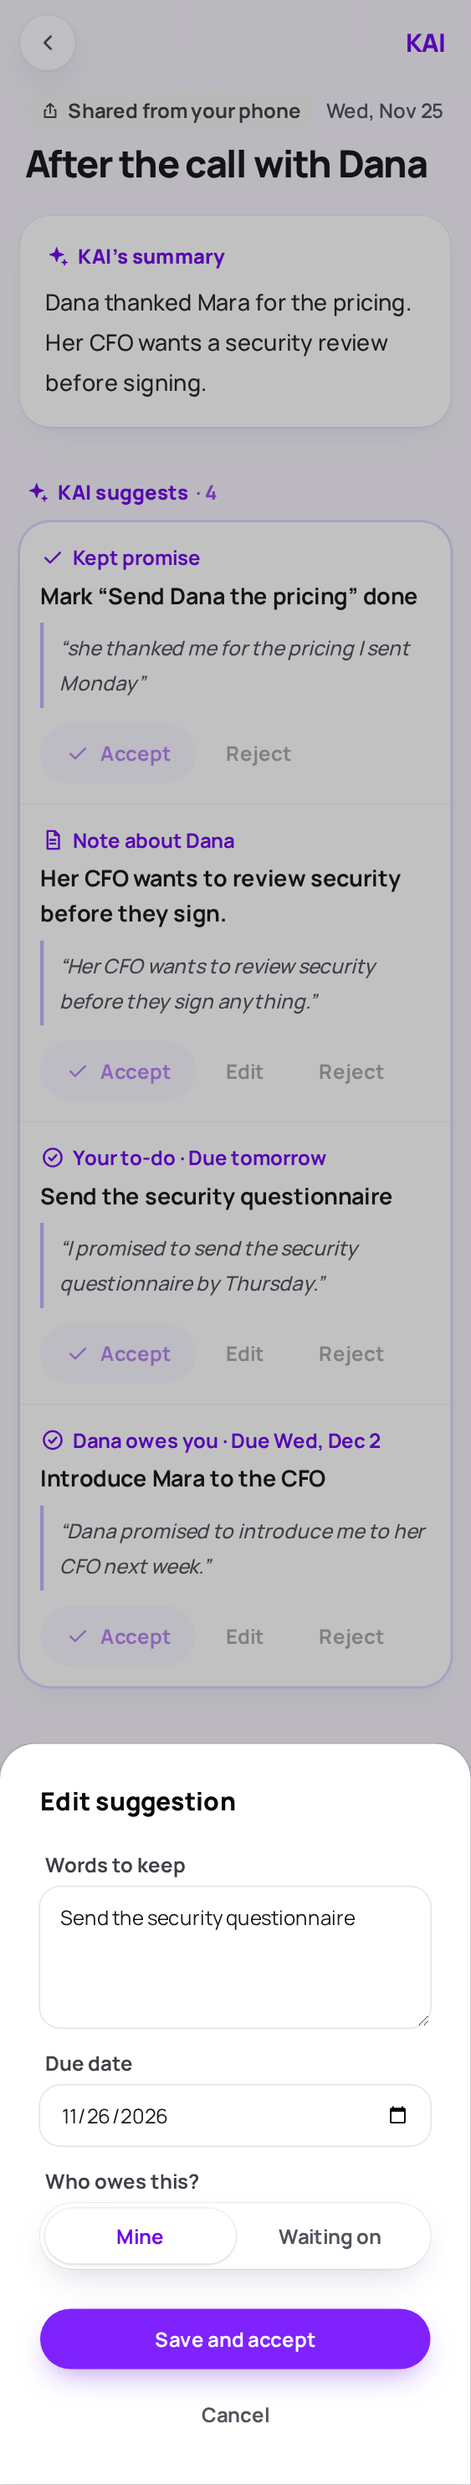
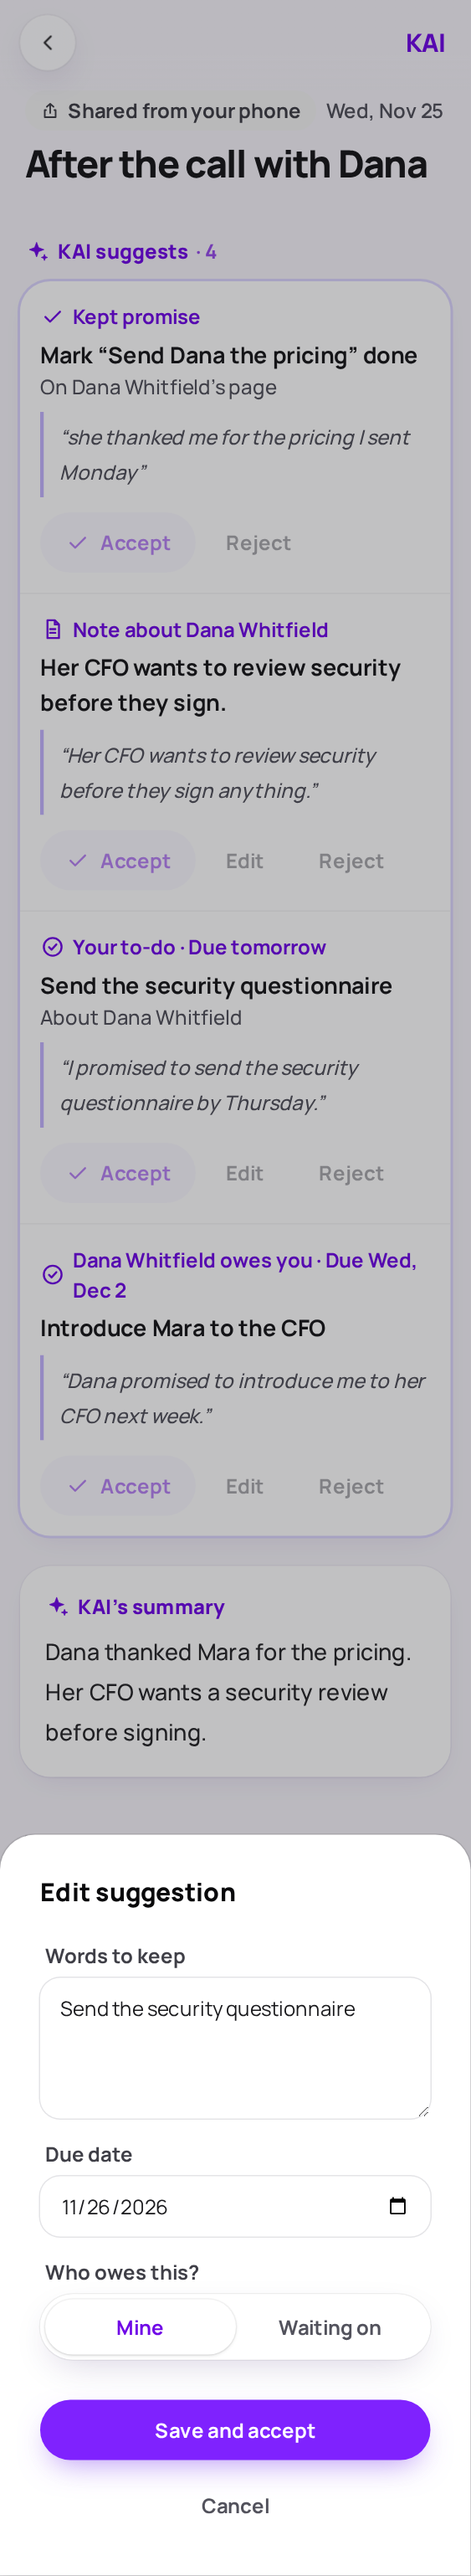
Put suggestions first and show the people they update

diff --git a/src/look/screens/Recording.tsx b/src/look/screens/Recording.tsx
@@ -14,14 +14,15 @@ const SOURCE: Record<Source, { label: string; icon: IconName }> = {
 /** What a suggestion is, in a few plain words, and what it says. */
 function describe(suggestion: Suggestion, today: string) {
   const payload = JSON.parse(suggestion.payload) as Payload
-  const who = payload.person_name?.split(' ')[0]
+  const who = suggestion.person_name
+  const owner = suggestion.owner_name
   const due = payload.due_on ? ` · ${dueWords(payload.due_on, today)}` : ''
   if (suggestion.kind === 'person')
     return { icon: 'people' as const, kind: 'New person', title: payload.name ?? '', detail: [payload.role, payload.company].filter(Boolean).join(' at ') }
-  if (suggestion.kind === 'note') return { icon: 'doc' as const, kind: who ? `Note about ${who}` : 'Note', title: payload.text ?? '' }
-  if (suggestion.kind === 'done') return { icon: 'check' as const, kind: 'Kept promise', title: `Mark “${payload.text}” done` }
-  if (payload.owner_person_id) return { icon: 'todo' as const, kind: (who ? `${who} owes you` : 'Waiting on') + due, title: payload.text ?? '' }
-  return { icon: 'todo' as const, kind: 'Your to-do' + due, title: payload.text ?? '' }
+  if (suggestion.kind === 'note') return { icon: 'doc' as const, kind: who ? `Note about ${who}` : 'Note · person unavailable', title: payload.text ?? '' }
+  if (suggestion.kind === 'done') return { icon: 'check' as const, kind: 'Kept promise', title: `Mark “${suggestion.todo_text ?? payload.text ?? 'this to-do'}” done`, detail: who ? `On ${who}’s page` : 'Person unavailable' }
+  if (payload.owner_person_id) return { icon: 'todo' as const, kind: (owner ? `${owner} owes you` : 'Waiting on · person unavailable') + due, title: payload.text ?? '', detail: who && who !== owner ? `About ${who}` : undefined }
+  return { icon: 'todo' as const, kind: 'Your to-do' + due, title: payload.text ?? '', detail: who ? `About ${who}` : payload.person_id ? 'Person unavailable' : 'For you' }
 }
 
 /** One suggestion: what KAI heard, and Accept, Edit or Reject. */
@@ -265,18 +266,6 @@ export function Recording({
           {recording.status === 'failed' && <Notice tone="error">{recording.error ?? 'KAI could not read this recording.'}</Notice>}
           {actionError && !edited && <Notice tone="error">{actionError}</Notice>}
 
-          {recording.person && <Card className="p-5"><p className="text-base font-semibold text-zinc-600">Linked to</p><TextLink href={'/people/'+recording.person.id}>{recording.person.name}</TextLink></Card>}
-
-          {recording.summary && (
-            <Card className="p-5">
-              <p className="flex items-center gap-1.5 text-base font-extrabold text-violet-700">
-                <Icon name="sparkle" />
-                KAI’s summary
-              </p>
-              <p className="mt-2 text-lg/8 font-medium whitespace-pre-line text-zinc-800">{recording.summary}</p>
-            </Card>
-          )}
-
           {(recording.suggestions.length > 0 || recording.status === 'ready') && (
             <div>
               <SectionLabel tone="kai" count={proposed.length || undefined}>
@@ -284,7 +273,7 @@ export function Recording({
               </SectionLabel>
               {recording.suggestions.length > 0 ? (
                 <ul className="divide-y divide-zinc-100 overflow-hidden rounded-3xl bg-white shadow-card ring-2 ring-violet-200">
-                  {recording.suggestions.map((suggestion) => (
+                  {[...proposed, ...recording.suggestions.filter(s=>s.status!=='proposed')].map((suggestion) => (
                     <SuggestionRow
                       key={suggestion.id}
                       suggestion={suggestion}
@@ -301,6 +290,18 @@ export function Recording({
                 <Card className="p-5 text-base font-medium text-zinc-600">KAI found no suggestions in these words.</Card>
               )}
             </div>
+          )}
+
+          {recording.person && <Card className="p-5"><p className="text-base font-semibold text-zinc-600">Linked to</p><TextLink href={'/people/'+recording.person.id}>{recording.person.name}</TextLink></Card>}
+
+          {recording.summary && (
+            <Card className="p-5">
+              <p className="flex items-center gap-1.5 text-base font-extrabold text-violet-700">
+                <Icon name="sparkle" />
+                KAI’s summary
+              </p>
+              <p className="mt-2 text-lg/8 font-medium whitespace-pre-line text-zinc-800">{recording.summary}</p>
+            </Card>
           )}
 
           {recording.status === 'ready' && proposed.length === 0 && waitlist}

diff --git a/tests/suggestion-list.test.ts b/tests/suggestion-list.test.ts
@@ -1,0 +1,40 @@
+import {test} from 'node:test';
+import assert from 'node:assert/strict';
+import {openDatabase,seed} from '../src/server/db';
+import {suggestionList} from '../src/server/suggestion-list';
+import {decide} from '../src/server/decisions';
+
+test('suggestions resolve their subject and task owner separately, within the notebook',()=>{
+ const db=openDatabase();seed(db,new Date(),'first');seed(db,new Date(),'second');
+ const add=db.prepare("INSERT INTO suggestions VALUES (?, 'first', 'first:dana-call', ?, ?, 'Invented quote', 'proposed')");
+ try {
+  add.run('note','note',JSON.stringify({person_id:'first:dana',text:'An invented note'}));
+  add.run('task','todo',JSON.stringify({person_id:'first:dana',owner_person_id:'first:ellis',text:'An invented promise',due_on:null}));
+  add.run('own','todo',JSON.stringify({person_id:null,owner_person_id:null,text:'Buy a notebook',due_on:null}));
+  add.run('foreign','note',JSON.stringify({person_id:'second:dana',person_name:'A guessed name',text:'An invented invalid reference'}));
+  const list=suggestionList(db,'first','first:dana-call');
+  assert.equal(list.find(s=>s.id==='note')!.person_name,'Dana Whitfield');
+  assert.equal(list.find(s=>s.id==='task')!.owner_name,'Ellis Rowan');
+  assert.equal(list.find(s=>s.id==='task')!.person_name,'Dana Whitfield');
+  assert.equal(list.find(s=>s.id==='own')!.person_name,null);assert.equal(list.find(s=>s.id==='own')!.owner_name,null);
+  assert.equal(list.find(s=>s.id==='foreign')!.person_name,null);
+  assert.deepEqual(suggestionList(db,'second','first:dana-call'),[]);
+ }finally{db.close()}
+});
+
+test('new people are named before acceptance and kept promises retain their text after acceptance',()=>{
+ const db=openDatabase();seed(db,new Date(),'first');
+ const add=db.prepare("INSERT INTO suggestions VALUES (?, 'first', 'first:dana-call', ?, ?, 'Invented quote', 'proposed')");
+ try {
+  add.run('proposed','person',JSON.stringify({name:'Sora Bell',company:'Cloudberry Smiles',role:'Manager'}));
+  add.run('new-note','note',JSON.stringify({person_id:'proposed',text:'An invented note'}));
+  add.run('kept','done',JSON.stringify({person_id:'first:dana',todo_id:'first:pricing',text:'Send Dana the pricing'}));
+  assert.equal(suggestionList(db,'first','first:dana-call').find(s=>s.id==='new-note')!.person_name,'Sora Bell');
+  decide(db,'first','proposed','accept',{name:'Sora Fern'});decide(db,'first','kept','accept');
+  const list=suggestionList(db,'first','first:dana-call');
+  assert.equal(list.find(s=>s.id==='new-note')!.person_name,'Sora Fern');
+  assert.equal(list.find(s=>s.id==='kept')!.todo_text,'Send Dana the pricing');
+  assert.equal(list.find(s=>s.id==='kept')!.person_name,'Dana Whitfield');
+  assert.equal(list.find(s=>s.id==='kept')!.status,'accepted');
+ }finally{db.close()}
+});

diff --git a/tests/phone/suggestion-context.spec.ts b/tests/phone/suggestion-context.spec.ts
@@ -1,0 +1,27 @@
+import {test,expect} from './fixture';
+import {assertPhone} from './usability';
+
+test('suggestions appear before the summary, name affected people and keep pending actions first',async({page,kai})=>{
+ await page.goto('/');await page.evaluate(s=>{history.replaceState(null,'','/#judge='+s);location.reload()},kai.secret);
+ await page.getByRole('link',{name:'Try it yourself',exact:true}).click();await page.getByRole('button',{name:'A follow-up with Dana',exact:true}).click();
+ await expect(page.getByRole('button',{name:/^Accept all/})).toBeEnabled();
+ await expect(page.getByText('Note about Dana Whitfield',{exact:true})).toBeVisible();
+ await expect(page.getByText('About Dana Whitfield',{exact:true})).toBeVisible();
+ await expect(page.getByText('On Dana Whitfield’s page',{exact:true})).toBeVisible();
+ await expect(page.getByText(/Dana Whitfield owes you/)).toBeVisible();
+ const note=await page.getByText('Note about Dana Whitfield',{exact:true}).boundingBox();const summary=await page.getByText('KAI’s summary',{exact:true}).boundingBox();expect(note!.y).toBeLessThan(summary!.y);
+ await page.getByRole('button',{name:'Accept',exact:true}).first().click();
+ await expect(page.getByText('Accepted',{exact:true})).toHaveCount(1);
+ const first=page.locator('main li').first();await expect(first).toContainText('Note about Dana Whitfield');await expect(first.getByRole('button',{name:'Accept',exact:true})).toBeEnabled();
+ await expect(page.getByRole('heading',{name:'Mark “Send Dana the pricing” done',exact:true})).toBeVisible();
+ await page.getByRole('button',{name:/^Show in the words:/}).first().click();await expect(page.locator('mark')).toBeVisible();await assertPhone(page);
+});
+
+test('suggestions about a proposed person show their name before and after accepting them',async({page,kai})=>{
+ await page.goto('/');await page.evaluate(s=>{history.replaceState(null,'','/#judge='+s);location.reload()},kai.secret);
+ await page.getByRole('link',{name:'Try it yourself',exact:true}).click();await page.getByRole('button',{name:'Meeting Sora',exact:true}).click();
+ await expect(page.getByRole('button',{name:/^Accept all/})).toBeEnabled();
+ await expect(page.getByText('Note about Sora Bell',{exact:true})).toBeVisible();await expect(page.getByText('About Sora Bell',{exact:true})).toBeVisible();
+ await page.getByRole('button',{name:'Accept',exact:true}).first().click();await expect(page.getByText('Accepted',{exact:true})).toHaveCount(1);
+ await expect(page.getByText('Note about Sora Bell',{exact:true})).toBeVisible();await assertPhone(page);
+});

diff --git a/design/gallery.tsx b/design/gallery.tsx
@@ -97,6 +97,11 @@ const speakerPassages=[{speaker:'A',text:'I will send the notes tomorrow.',start
 const STATES: Record<string, { title: string; screen: () => ReactNode }> = {
   'recording/speakers':{title:'Recording · identify speakers',screen:()=> <Speakers people={data.people} utterances={speakerPassages} onSubmit={nothing}/>},
   'recording/speakers-loading':{title:'Recording · loading people',screen:()=> <Speakers people={null} utterances={speakerPassages} onSubmit={nothing}/>},
+  'recording/people-context': {title:'Recording · who each suggestion updates',screen:()=> <LiveRecording first={{...data.recordings.ready,text:'I need to write a call checklist. Ellis will send Dana the clinic schedule. '+data.recordings.ready.text,suggestions:[
+    {id:'personal',kind:'todo',payload:JSON.stringify({person_id:null,owner_person_id:null,text:'Write a call checklist',due_on:null}),quote:'I need to write a call checklist.',status:'proposed'},
+    {id:'different-owner',kind:'todo',person_name:'Dana Whitfield',owner_name:'Ellis Rowan',payload:JSON.stringify({person_id:'dana',owner_person_id:'ellis',text:'Send the clinic schedule',due_on:null}),quote:'Ellis will send Dana the clinic schedule.',status:'proposed'},
+    ...data.recordings.ready.suggestions
+  ]}}/>},
   'recording/speakers-ready':{title:'Recording · speakers selected',screen:()=> <Speakers people={data.people} utterances={speakerPassages} initialChoices={{A:{kind:'owner'},B:{kind:'person',person_id:data.people[0].id}}} onSubmit={nothing}/>},
   'recording/speakers-new':{title:'Recording · new speaker',screen:()=> <Speakers people={data.people} utterances={speakerPassages} initialChoices={{A:{kind:'owner'},B:{kind:'new',person:{id:'invented',name:'Avery Fern',company:'',role:''}}}} onSubmit={nothing}/>},
   'recording/speakers-error':{title:'Recording · speakers not saved',screen:()=> <Speakers people={data.people} utterances={speakerPassages} error="The speakers could not be saved. Try again." onSubmit={nothing}/>},

diff --git a/src/server/app.ts b/src/server/app.ts
@@ -1,3 +1,4 @@
+import {suggestionList} from './suggestion-list';
 import {recordingMailWorker,type SendReady} from './recording-mail';
 import express from 'express';
 import {mountTrial,type TrialOptions} from './trial';
@@ -159,7 +160,7 @@ export function createApp(db: KaiDatabase, options: AppOptions = {}) {
   app.get('/api/readings/:id',(req,res) => {
     const row=db.prepare('SELECT id,title,summary,text,happened_on,source,status,error,progress,person_id,awaiting_person,recording_type,utterances,speaker_map,awaiting_speakers FROM conversations WHERE id=? AND workspace_id=?').get(req.params.id,res.locals.workspace) as {person_id:string|null;utterances:string;speaker_map:string}|undefined;
     if(!row) {res.status(404).json({error:'Recording not found.'});return;}
-    const suggestions=db.prepare('SELECT id,kind,payload,quote,status FROM suggestions WHERE conversation_id=? AND workspace_id=? ORDER BY rowid').all(req.params.id,res.locals.workspace);
+    const suggestions=suggestionList(db,res.locals.workspace,req.params.id);
     const person=row.person_id ? db.prepare('SELECT id,name,company,role FROM people WHERE id=? AND workspace_id=?').get(row.person_id,res.locals.workspace) ?? null:null;
     res.json({...row,utterances:JSON.parse(row.utterances),speaker_map:JSON.parse(row.speaker_map),person,suggestions});
   });

diff --git a/src/server/suggestion-list.ts b/src/server/suggestion-list.ts
@@ -1,0 +1,12 @@
+import type {KaiDatabase} from './db';
+/** Display context comes from this notebook, never from a name guessed by the model. */
+export function suggestionList(db:KaiDatabase,workspace:string,recording:string) {
+ const rows=db.prepare('SELECT id,kind,payload,quote,status FROM suggestions WHERE conversation_id=? AND workspace_id=? ORDER BY rowid').all(recording,workspace) as {id:string;kind:string;payload:string;quote:string;status:string}[];
+ const names=new Map((db.prepare('SELECT id,name FROM people WHERE workspace_id=?').all(workspace) as {id:string;name:string}[]).map(p=>[p.id,p.name]));
+ for(const row of rows)if(row.kind==='person'&&!names.has(row.id)){const p=JSON.parse(row.payload);if(typeof p.name==='string')names.set(row.id,p.name);}
+ return rows.map(row=>{
+  const p=JSON.parse(row.payload);
+  const todo=row.kind==='done'?db.prepare('SELECT text,owner_person_id FROM todos WHERE id=? AND workspace_id=?').get(p.todo_id,workspace) as {text:string;owner_person_id:string|null}|undefined:undefined;
+  return {...row,person_name:names.get(p.person_id)??null,owner_name:names.get(todo?.owner_person_id??p.owner_person_id)??null,...(todo?{todo_text:todo.text}:{})};
+ });
+}

diff --git a/src/look/types.ts b/src/look/types.ts
@@ -49,6 +49,10 @@ export type PersonPage = {
 export type SuggestionKind = 'person' | 'note' | 'todo' | 'done'
 
 export type Suggestion = {
+  /** Resolved inside this notebook, including proposed people. */
+  person_name?: string | null
+  owner_name?: string | null
+  todo_text?: string
   id: string
   kind: SuggestionKind
   /** JSON, as the server stores it. */

diff --git a/design/fixtures.ts b/design/fixtures.ts
@@ -54,6 +54,8 @@ const suggestion = (id: string, kind: Suggestion['kind'], payload: object, quote
   id,
   kind,
   payload: JSON.stringify(payload),
+  person_name: (payload as {person_name?:string}).person_name,
+  owner_name: (payload as {owner_person_id?:string}).owner_person_id ? (payload as {person_name?:string}).person_name : null,
   quote,
   status,
 })

diff --git a/design/README.md b/design/README.md
@@ -45,7 +45,7 @@ and callbacks. The old global `src/style.css` is removed. Stock Catalyst is
 unchanged, including the dialog used for the editing sheet.
 
 The gallery includes loading and failure states needed by the live app.
-`check.mjs` checks all 96 states. The phone suite checks all public and judge
+`check.mjs` checks all 97 states. The phone suite checks all public and judge
 routes, choosing a person before an upload, shared recordings waiting for that choice, Home checkboxes, decisions, editing, errors and quote
 highlighting. It checks the filled violet's resting, hover and active colours,
 and waits for finite layout transitions to settle through retried assertions.
@@ -76,9 +76,6 @@ The dock at the foot of the screen holds it, except where noted.
 Each is optional in `types.ts`, and the screen is whole without it.
 
 - `/api/home`: `due_on` and `person_name` on a to-do; `happened_on` on a recording.
-- `/api/readings/<id>`: `happened_on` and `source`, for the line over the title.
-- A suggestion's payload: `person_name`, for "Note about Dana" and "Dana
-  owes you". Without it the labels are "Note" and "Waiting on".
 - `/api/people/<id>`: `pendingCount`, for "Review suggestions · 4".
 - The red or amber dot on the To-dos tab (`due`) needs the two counts on
   every tab page.
@@ -153,3 +150,10 @@ with no recording title or contents. `email-failed.html` and
 `shots/email-failed.png` show the invented example. Home distinguishes
 unfinished recordings by type, duration and date, and shows when speaker
 identification is needed. Verified trial copy covers ready and failed mail.
+
+Recording pages put actionable suggestions above the linked person, summary
+and words. Pending suggestions stay before accepted/rejected ones. Each
+note and kept promise names the person it updates; a task distinguishes its
+owner from the person it is about. Personal tasks say “For you”. Names come
+from the same notebook's existing or newly proposed people, including before
+acceptance. These are display labels, not changes to the stored suggestions.
